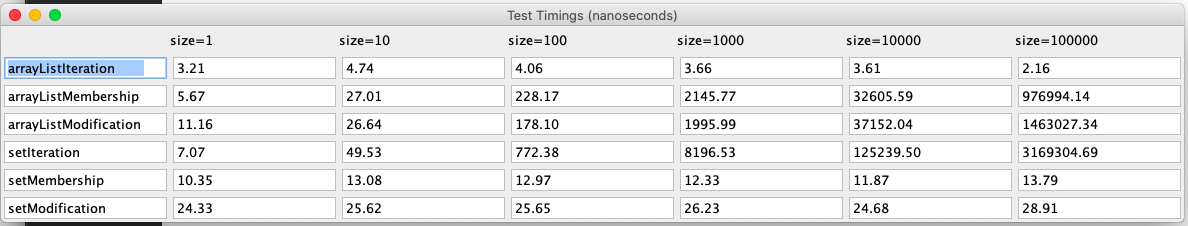
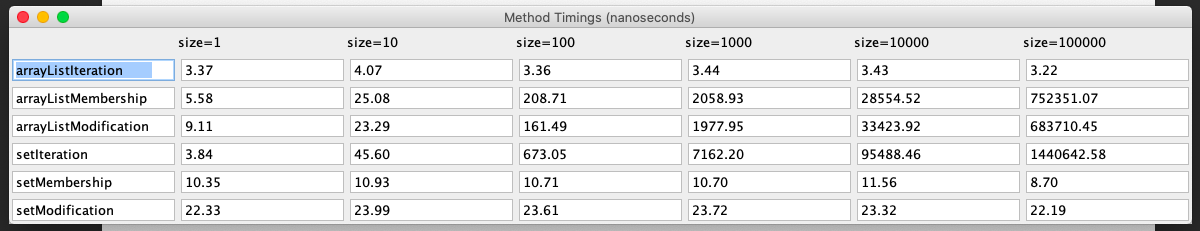
`src/main/timer/reporting/` folder: changed report header `Test` -> `Method`, `xml` report: `timings` -> `method-timings`, `unit` -> `units`; b) `notes/sample-timer-reports` folder: fresh data for xml & swing.

diff --git a/src/main/timer/reporting/XmlReport.java b/src/main/timer/reporting/XmlReport.java
@@ -18,11 +18,11 @@ public class XmlReport extends Report {
 
   private void header() {
     System.out.println("<?xml version=\"1.0\" encoding=\"ISO-8859-1\"?>");
-    System.out.println("<timings unit=\"nanoseconds\">");
+    System.out.println("<method-timings units=\"nanoseconds\">");
   }
 
   private void footer() {
-    System.out.println("</timings>");
+    System.out.println("</method-timings>");
   }
 
   protected void bySize(int[] sizes, double[][] timings) {

diff --git a/src/main/timer/reporting/TextReport.java b/src/main/timer/reporting/TextReport.java
@@ -16,7 +16,7 @@ public class TextReport extends Report {
   }
 
   private void printTitle() {
-    System.out.println(TextFormat.title("********** Test Timings (nanoseconds):"));
+    System.out.println(TextFormat.title("********** Method Timings (nanoseconds):"));
   }
 
   protected void bySize(int[] sizes, double[][] timings) {

diff --git a/src/main/timer/reporting/SwingReport.java b/src/main/timer/reporting/SwingReport.java
@@ -15,7 +15,7 @@ public class SwingReport extends Report {
   private JFrame frame;
   public SwingReport(OrderedResults results) {
     super(results);
-    this.frame = new JFrame("Test Timings (nanoseconds)");
+    this.frame = new JFrame("Method Timings (nanoseconds)");
   }
 
   public void view() {
